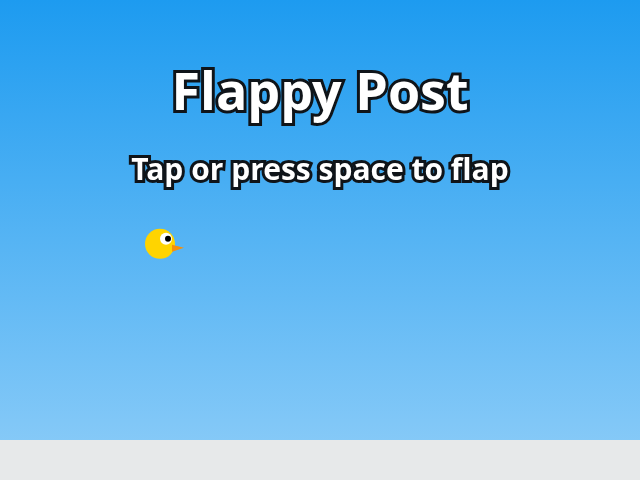
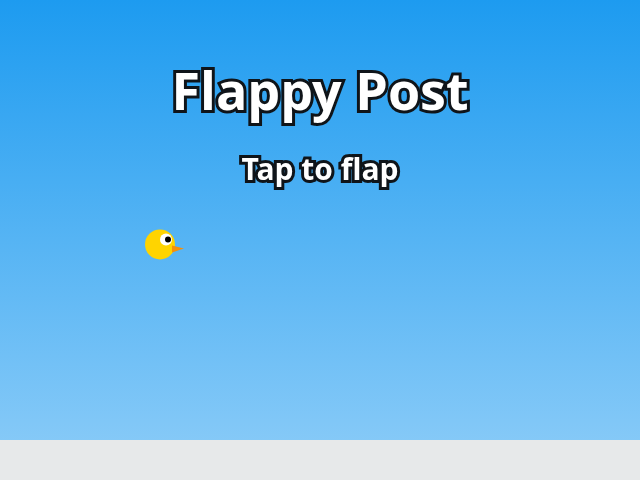
Tap-only controls: drop the space key

Changed region(s): [[0.1875, 0.3125, 0.8125, 0.4062], [0.25, 0.4688, 0.2812, 0.5312]]

diff --git a/game.html b/game.html
@@ -35,7 +35,6 @@ function onInput(e) {
 }
 for (const type of ['touchstart', 'pointerdown', 'mousedown'])
   document.addEventListener(type, onInput, { passive: false });
-addEventListener('keydown', e => { if (e.code === 'Space' || e.code === 'ArrowUp') { e.preventDefault(); flap(); } });
 
 function update() {
   t++;
@@ -82,7 +81,7 @@ function draw() {
   x.font = 'bold 48px system-ui, sans-serif';
   if (state === 'play') { x.strokeText(score, W / 2, 70); x.fillText(score, W / 2, 70); }
   x.font = 'bold 30px system-ui, sans-serif';
-  const msg = state === 'ready' ? 'Tap or press space to flap'
+  const msg = state === 'ready' ? 'Tap to flap'
             : state === 'dead' ? `Score ${score} · Best ${best} · tap to retry` : '';
   if (msg) { x.strokeText(msg, W / 2, H / 2 - 60); x.fillText(msg, W / 2, H / 2 - 60); }
   if (state === 'ready') {
